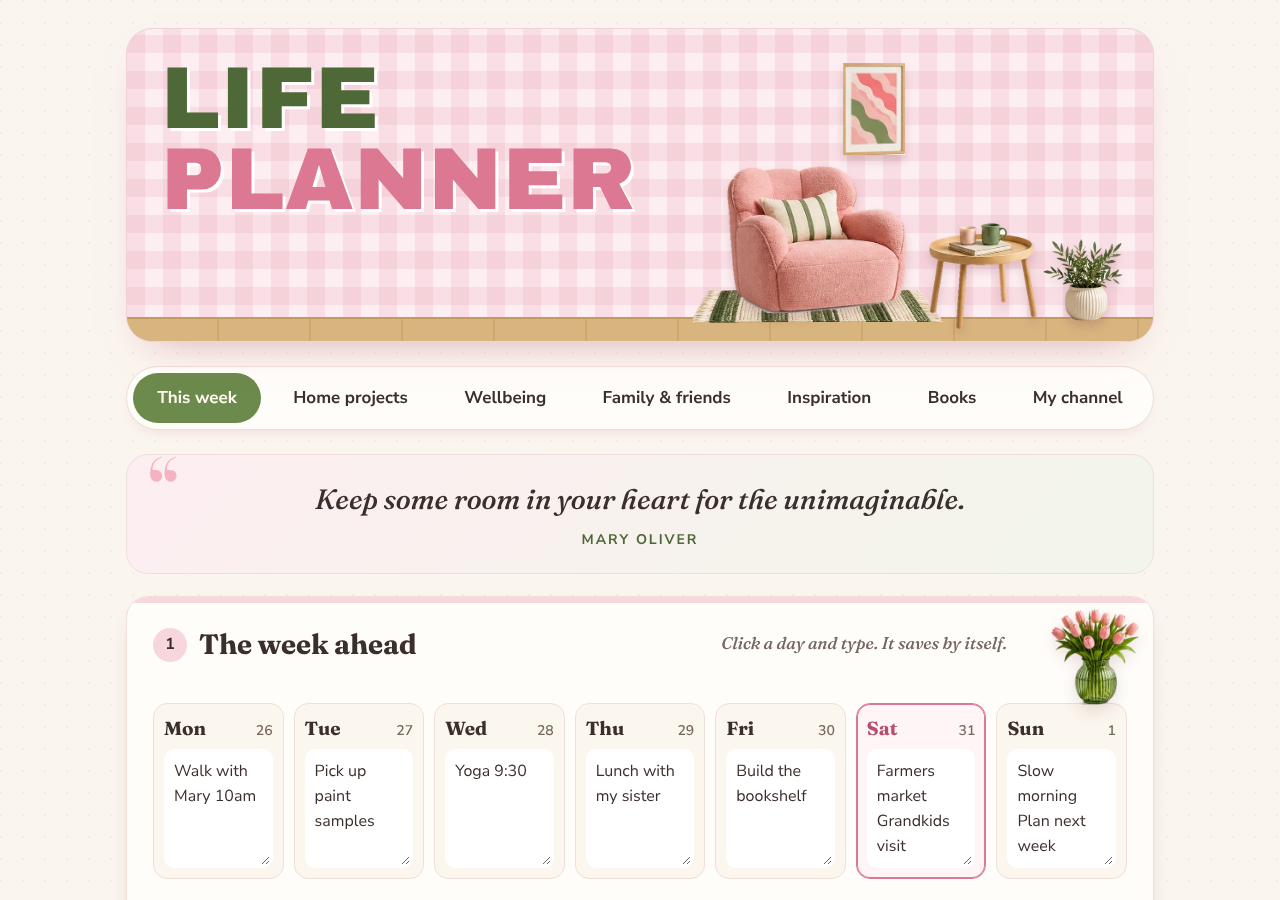
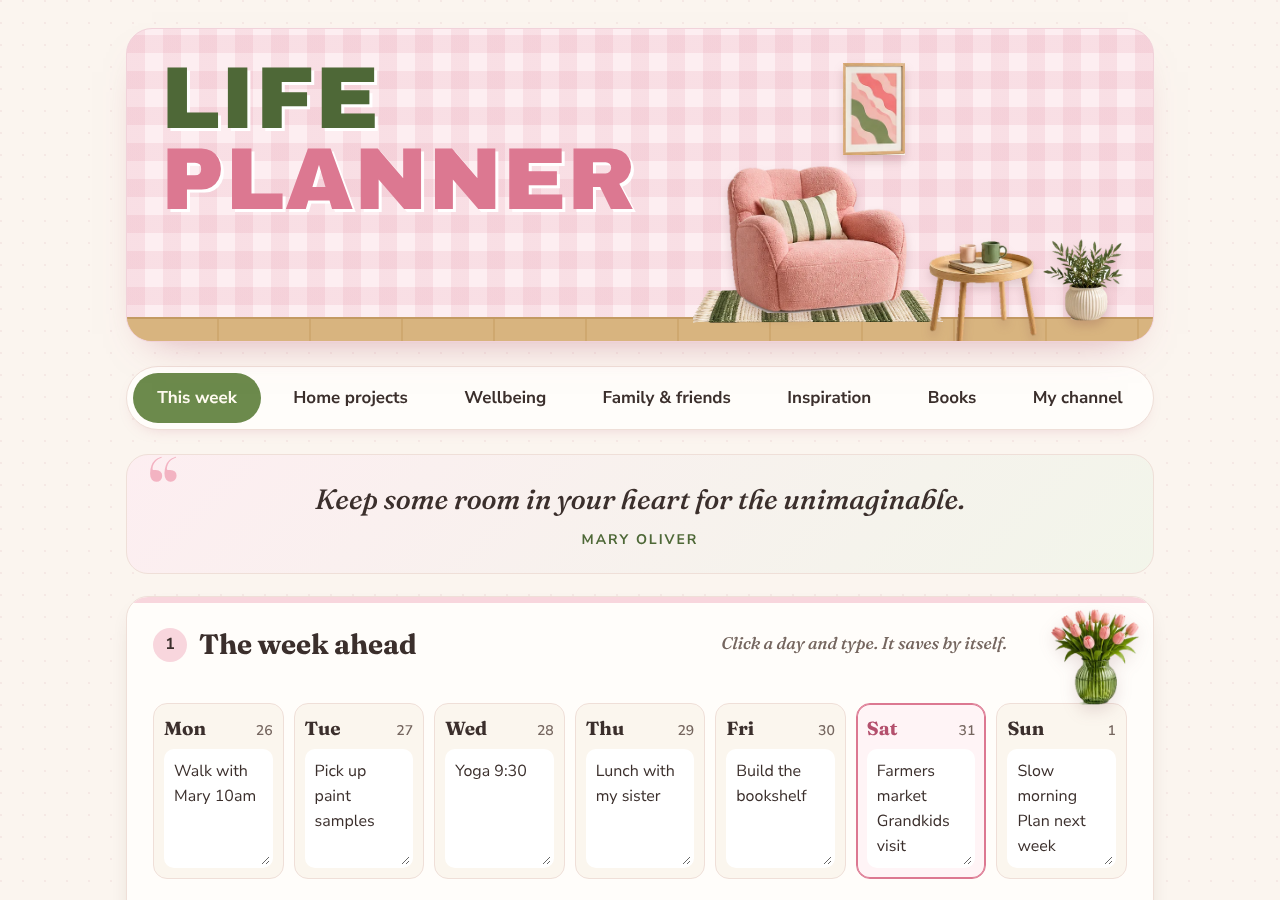
Studio header: lower the side table onto the floor
Claude-Session: https://claude.ai/code/session_01ED3dfkgLxSrK1wkukGmhnx

Changed region(s): [[0.7188, 0.2489, 0.8125, 0.3733]]

diff --git a/themes/studio.html b/themes/studio.html
@@ -373,7 +373,7 @@ body { background-color: var(--paper); background-image: radial-gradient(circle 
 .v-art { width: 62px; left: 150px; top: 4px; }
 .vignette .v-rug { width: 250px; height: 34px; left: 0; bottom: 4px; }
 .v-chair { width: 180px; left: 34px; bottom: 14px; }
-.v-table { width: 108px; left: 236px; bottom: -2px; }
+.v-table { width: 108px; left: 236px; bottom: -20px; }
 .v-olive { width: 80px; left: 350px; bottom: 6px; }
 @media (max-width: 760px) { .vignette { width: 430px; height: 268px; } }
 .swatches { grid-template-columns: repeat(auto-fill, minmax(150px, 1fr)); gap: 16px; }
